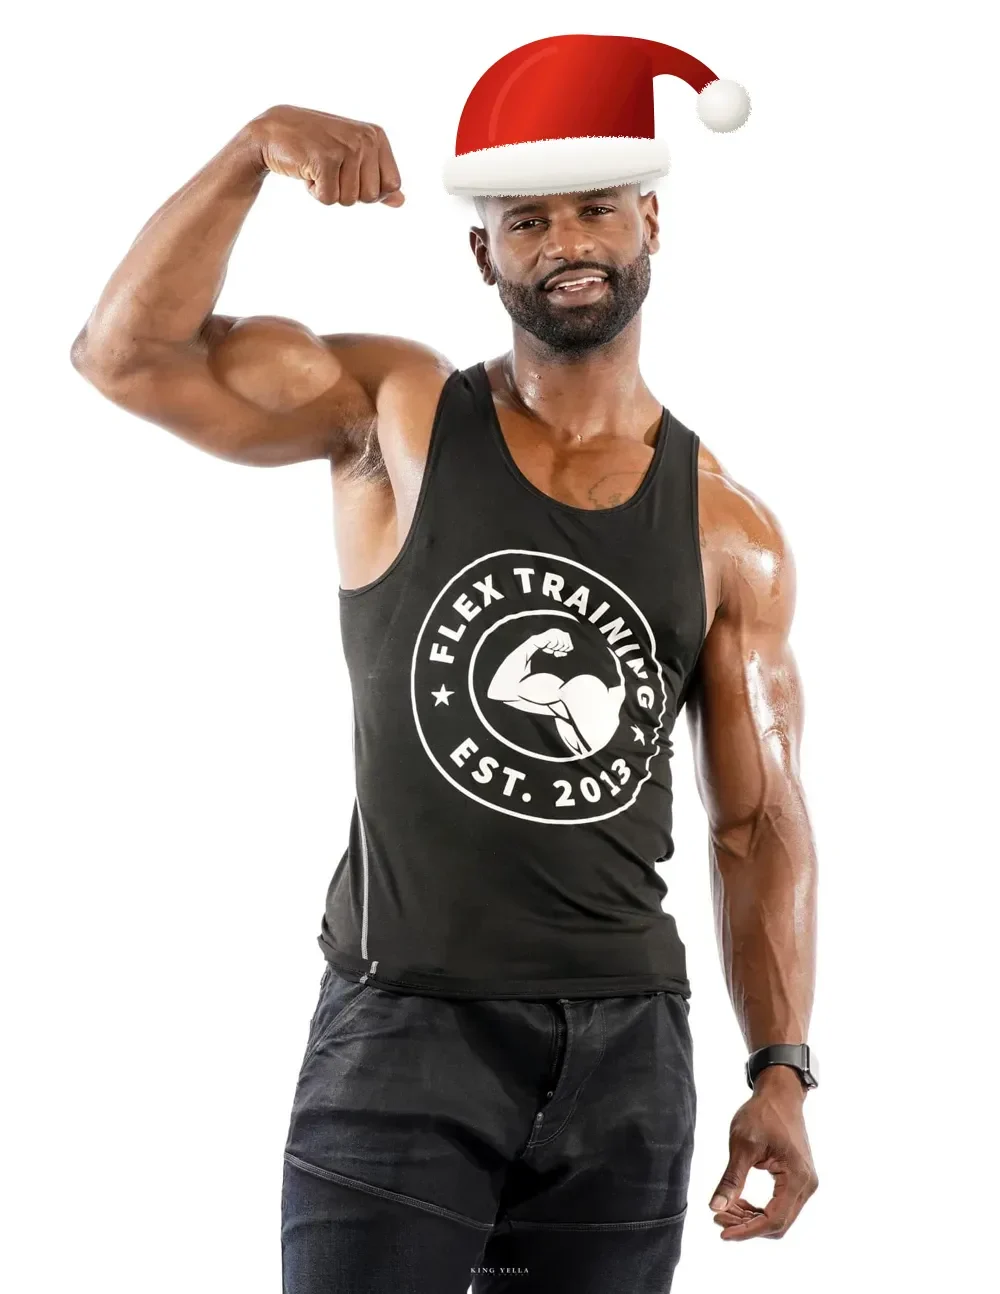
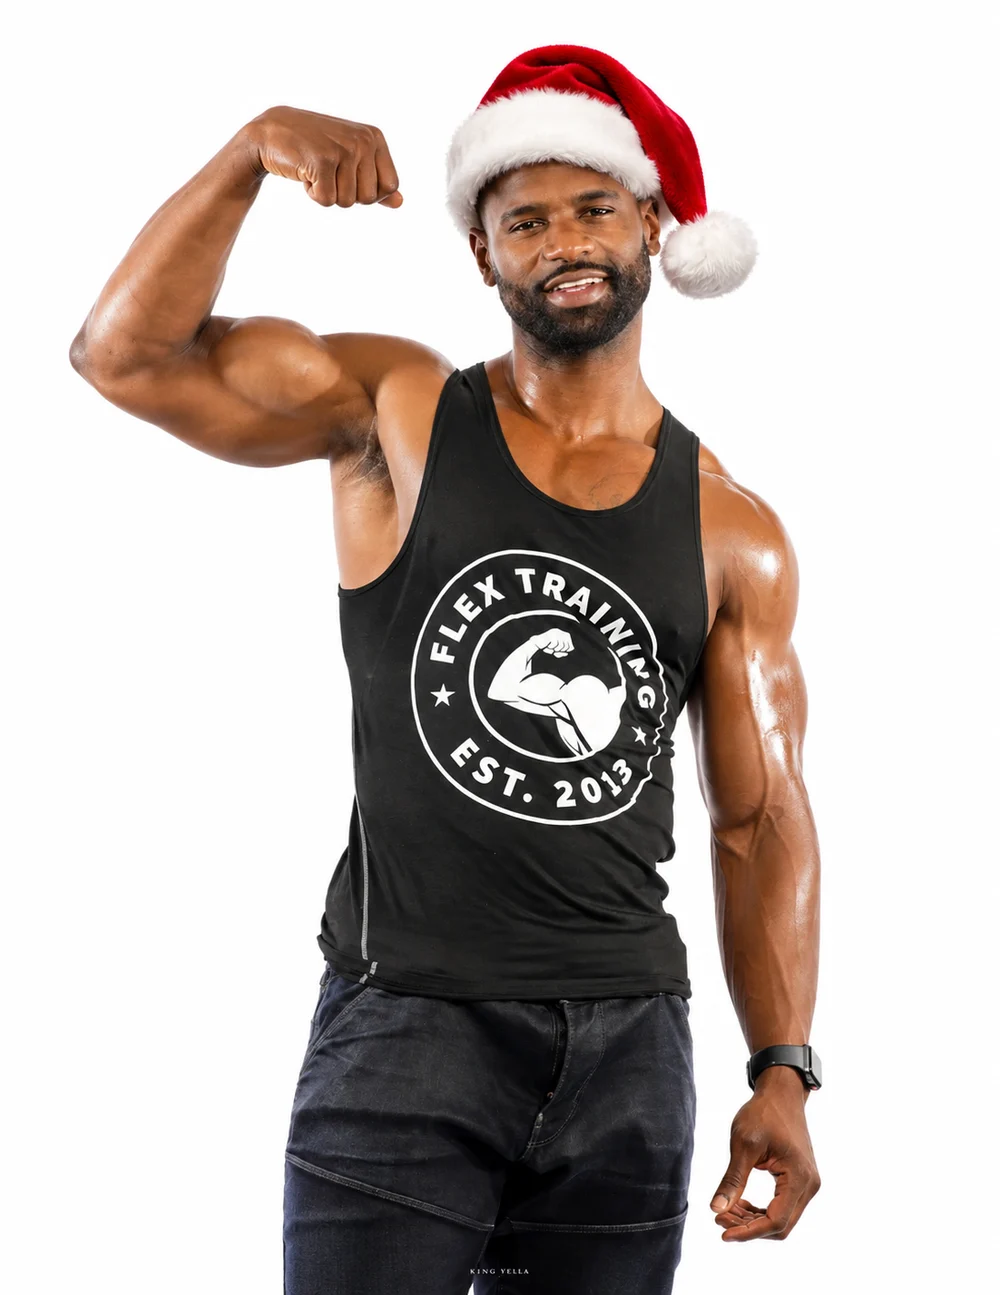
Use the new Santa-hat photo of Coach Kenny in the hero

diff --git a/index.html b/index.html
@@ -643,7 +643,7 @@ div[class*="vapi"] button {
 
     <div class="hero-visual rv d1">
       <div class="hv-card">
-        <img src="/images/kenny-flex-xmas.webp" alt="Coach Kenny Sims in a Santa hat, flexing in a Flex Training Est. 2013 tank" width="1000" height="1294" fetchpriority="high">
+        <img src="/images/kenny-flex-xmas.webp" alt="Coach Kenny Sims in a Santa hat, flexing in a Flex Training Est. 2013 tank" width="1000" height="1295" fetchpriority="high">
         <div class="hv-chip c1"><span class="ic"><svg><use href="#i-trophy"/></svg></span><span><b>Pro Elite</b><small>Bodybuilder</small></span></div>
         <div class="hv-chip c2"><span class="ic"><svg><use href="#i-bolt"/></svg></span><span><b>Coach Kenny Sims</b><small>Owner · Head coach</small></span></div>
       </div>
